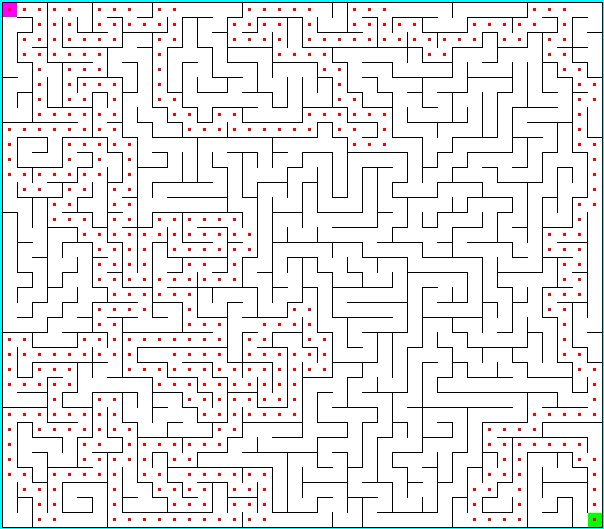
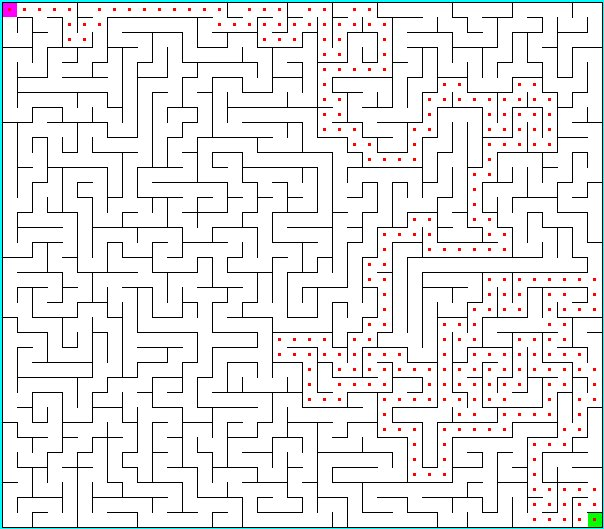
colors :D

diff --git a/Maze_Solver.py b/Maze_Solver.py
@@ -51,7 +51,6 @@ class Cell:
         elif direction == RIGHT:
             self.right_wall = True
 
-
     ## Make a copy of Cell object
     def copy(self):
         new_cell = Cell()
@@ -64,12 +63,14 @@ class Cell:
         return new_cell
 
 class Maze:
-    def __init__(self, width=20, height=20, tile_size=20, border_width=20, animate=True):
+    def __init__(self, width=20, height=20, tile_size=20, border_width=20, color=WHITE, background=CYAN, solve=RED, animate=True):
         self.width = width
         self.height = height
         self.tile_size = tile_size
         self.border_width = border_width
         self.animate = animate
+        self.tile_color = color
+        self.solve_color = solve
 
         self.maze = [[Cell() for _ in range(self.height)] for _ in range(self.width)]
 
@@ -77,7 +78,7 @@ class Maze:
         pheight = (height * tile_size) + (2 * border_width)
         
         self.screen = pygame.display.set_mode((pwidth, pheight))
-        self.screen.fill(CYAN)
+        self.screen.fill(background)
         pygame.display.set_caption("Maze Solver")
 
     def in_bounds(self, check_x, check_y):
@@ -110,7 +111,6 @@ class Maze:
     def push(self, x, y, direction):
         s = self.tile_size
         b = self.border_width
-
         
         px = (x * s) + b + 1
         py = (y * s) + b + 1
@@ -120,9 +120,9 @@ class Maze:
             py += direction[1] * s
 
         if direction in (UP, DOWN):
-            pygame.draw.rect(self.screen, WHITE, (px, py, s - 1, (2 * s) - 1), 0)
+            pygame.draw.rect(self.screen, self.tile_color, (px, py, s - 1, (2 * s) - 1), 0)
         else:
-            pygame.draw.rect(self.screen, WHITE, (px, py, (2 * s) - 1, s - 1), 0)
+            pygame.draw.rect(self.screen, self.tile_color, (px, py, (2 * s) - 1, s - 1), 0)
 
         if self.animate == True:
             pygame.display.update()
@@ -210,7 +210,7 @@ class Maze:
                 x, y = stack.pop()
                 self.draw_tile(x, y, RED)
                 clock.tick(fps)
-                self.draw_tile(x, y, WHITE)
+                self.draw_tile(x, y, self.tile_color)
 
         self.draw_goals()
         pygame.display.update()
@@ -240,8 +240,7 @@ class Maze:
         end_x = end_coord[0]        
         end_y = end_coord[1]
         ## TODO: Check if ending x and y coordinates are valid
-        assert(self.in_bounds(end_x, end_y))
-        
+        assert(self.in_bounds(end_x, end_y))        
 
         ## Run until our current coordinate is equal to the ending coordinate
         while (x, y) != (end_x, end_y):
@@ -250,7 +249,7 @@ class Maze:
                     pygame.quit()
 
             ## TODO: Draw a small red tile (use function draw_small_tile())
-            self.draw_small_tile(x, y, RED)
+            self.draw_small_tile(x, y, self.solve_color)
                     
             clock.tick(fps)
 
@@ -272,7 +271,7 @@ class Maze:
             if len(branches) > 0:
                 ## TODO: Add our current coordinates to the stack
                 stack.append((x,y))
-                self.draw_small_tile(x, y, RED)
+                self.draw_small_tile(x, y, self.solve_color)
 
                 ## We just choose the first direction because randomness does not matter
                 direction = branches[0]
@@ -289,19 +288,18 @@ class Maze:
                 maze_info[x][y].add_wall(OPPOSITE[direction])
                                 
             else:
-                ## Draw a white tile over the small red_tile to 'erase' it from our screen
-                self.draw_tile(x, y, WHITE)                
+                ## Draw a self.tile_color tile over the small red_tile to 'erase' it from our screen
+                self.draw_tile(x, y, self.tile_color)                
                 clock.tick(fps)
                 x, y = stack.pop()
 
-
-        self.draw_small_tile(x, y, RED)
+        self.draw_small_tile(x, y, self.solve_color)
                 
 if __name__ == "__main__":
     pygame.init()
 
     ## Try changing up the size and starting/ending locations for fun
-    '''width, height, tile size, border width'''
+    '''width, height, tile_size, border_width, animate, tile color, background color, solve-thingies color'''
     maze = Maze(40, 35, 15, 2)
 
     '''which coord to start making the maze'''
